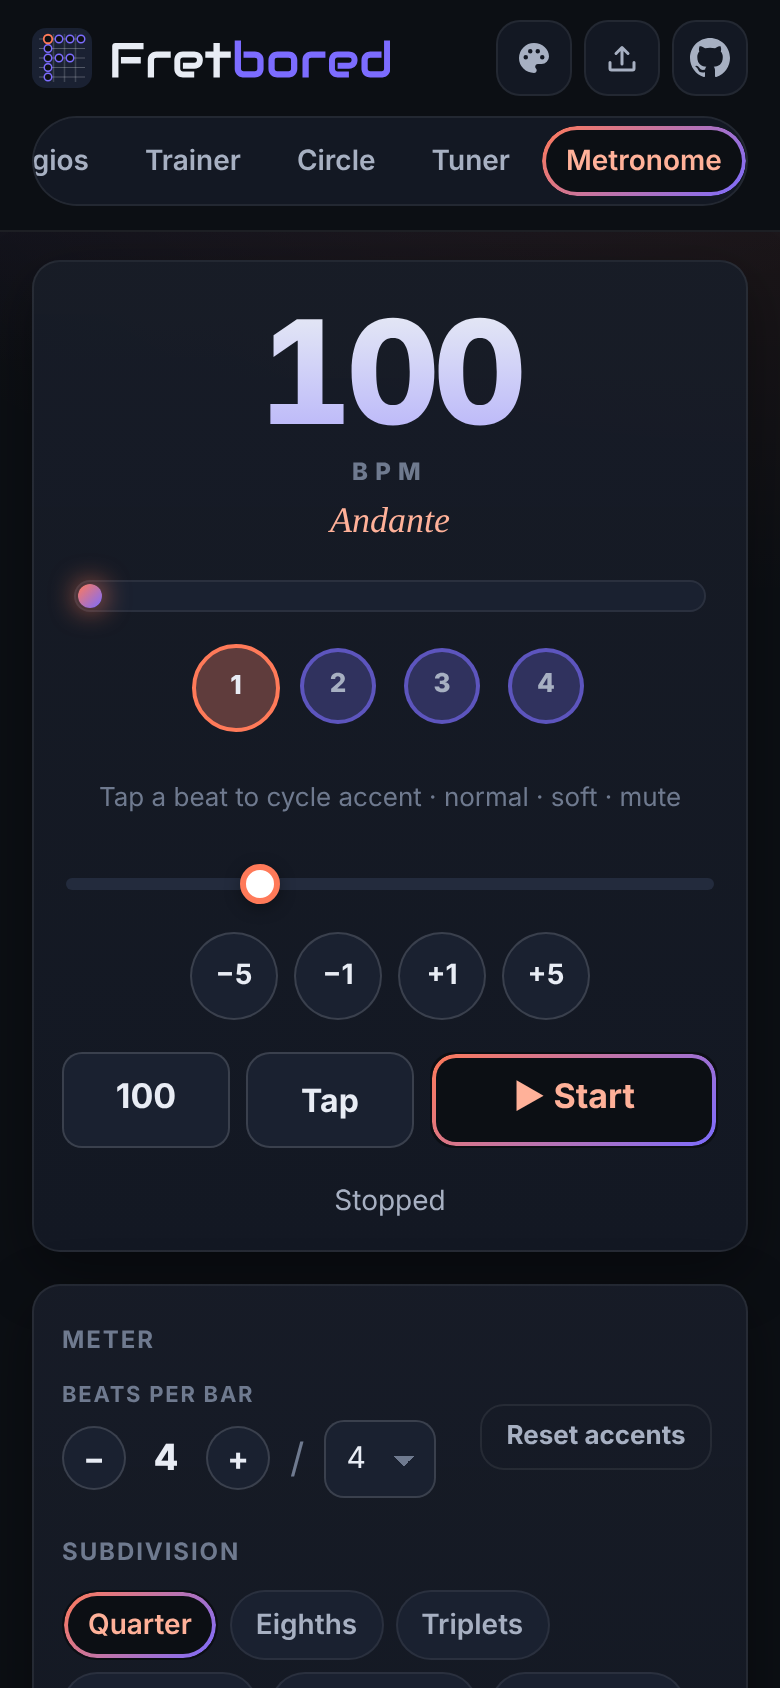
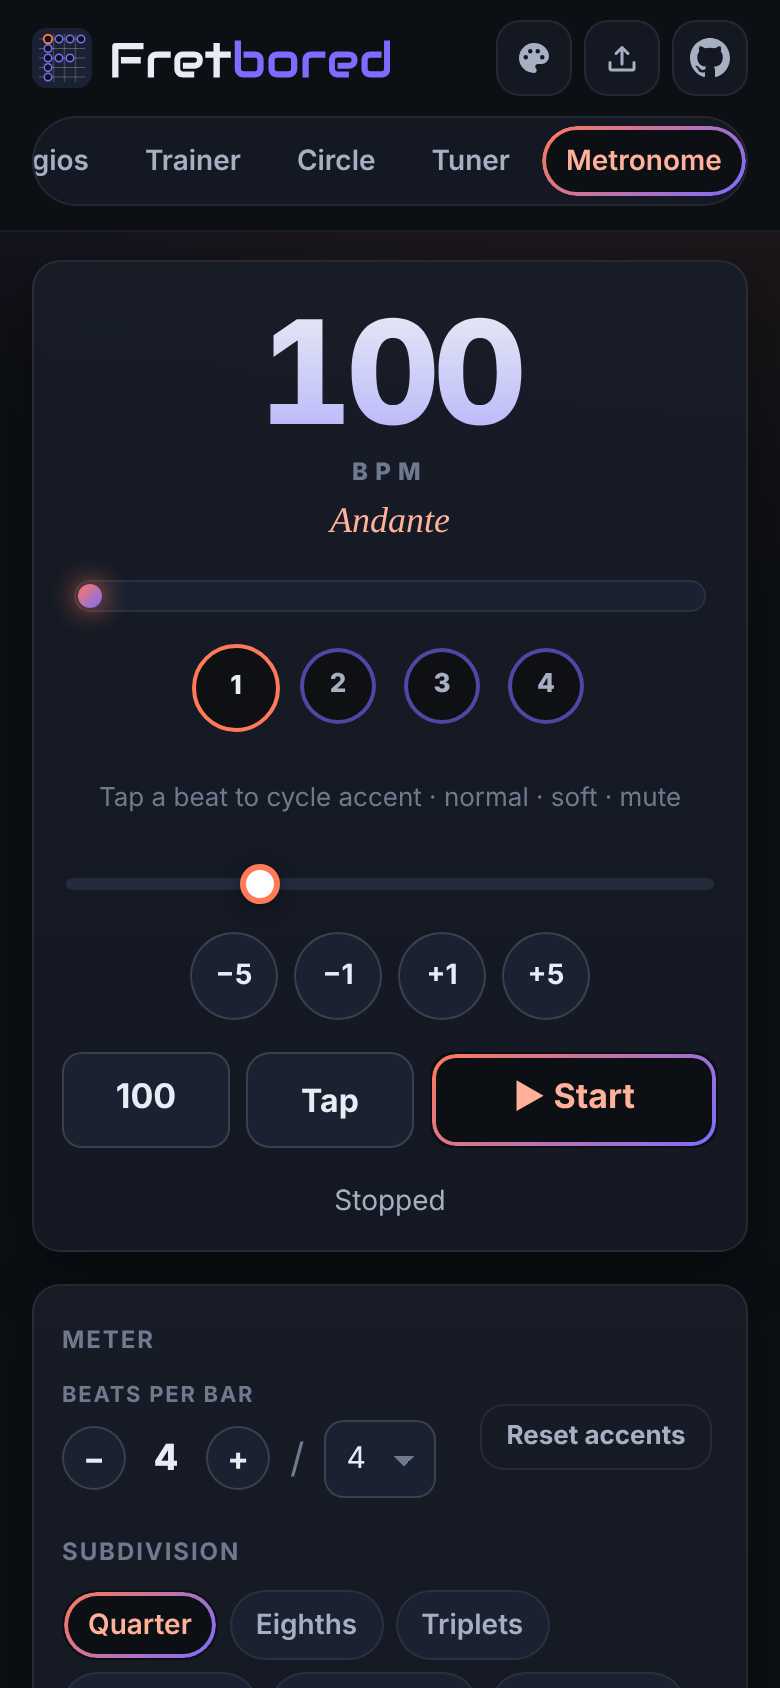
Keep one play button per tab: the pinned now-bar
Scales, Chords, Arpeggios and Circle of Fifths each had a second play
button in the hero card, duplicating the action in the pinned bar. The
bar is always visible, so the hero copies were removed; Circle keeps its
"Show on fretboard" button.

Ring style: the metronome beat lights now use the same near-black fill
as the note dots, so the coloured ring reads the same as the fretboard.
Lit beats keep their thicker accent ring.

Claude-Session: https://claude.ai/code/session_01PCZFbmeF94mj426R5FEm5H

Changed region(s): [[0.2462, 0.3697, 0.4923, 0.4313], [0.6462, 0.3697, 0.7692, 0.4313], [0.5231, 0.3697, 0.6154, 0.4313]]

diff --git a/tests/smoke.browser.js b/tests/smoke.browser.js
@@ -223,7 +223,7 @@ const check = (label, actual, expected) => {
     check(`${P} guitar settings header`, (await page.textContent('#panel-chords .fb-settings-title')).trim(), 'Guitar settings');
     await page.click('#panel-chords .fb-settings summary');
     await page.click('#panel-chords .seg[aria-label="Guitar tone"] button:has-text("Overdriven")');
-    await page.click('#panel-chords .hero-actions button');
+    await page.click('.now-bar.show .nb-action');
     await page.waitForTimeout(300);
     check(`${P} tone saved`, await page.evaluate(() => FS.settings.fretboard.tone), 'overdrive');
     check(`${P} tone options`, await page.$$eval('#panel-chords .seg[aria-label="Guitar tone"] button', (b) => b.map((x) => x.textContent).join(' ')), 'Clean Overdriven');
@@ -255,7 +255,7 @@ const check = (label, actual, expected) => {
     await page.click('#panel-chords .fb-settings .switch-field:has-text("Palm mute")');
     await page.click('#panel-chords .seg[aria-label="Reverb"] button:has-text("Hall")');
     await page.click('#panel-chords .seg[aria-label="Delay"] button:has-text("Echo")');
-    await page.click('#panel-chords .hero-actions button');
+    await page.click('.now-bar.show .nb-action');
     await page.waitForTimeout(300);
     check(`${P} palm mute / reverb / delay saved`, await page.evaluate(() => { const f = FS.settings.fretboard; return `${f.palmMute} ${f.reverb} ${f.delay}`; }), 'true hall echo');
     const fx = await page.evaluate(async () => {
@@ -340,10 +340,10 @@ const check = (label, actual, expected) => {
     await page.click('#panel-arpeggios .pill[title^="G shape"]');
     await page.waitForTimeout(150);
     check(`${P} arpeggios: G shape tab`, await tabFrets(), /^8 7 5 5 5 8 8/);
-    await page.click('#panel-arpeggios .play-btn');
+    await page.click('.now-bar.show .nb-action');
     await page.waitForTimeout(700);
     check(`${P} arpeggios: playback highlights the tab`, String(await page.$$eval('#panel-arpeggios .tab-note.on', (n) => n.length)), '1');
-    await page.click('#panel-arpeggios .play-btn');
+    await page.click('.now-bar.show .nb-action');
     // Max shred: notes scheduled 50 ms apart on the audio clock.
     await page.evaluate(() => {
       window.__notes = [];
@@ -352,7 +352,7 @@ const check = (label, actual, expected) => {
       FS.audio.playNote = (midi, when, ...rest) => (window.__notes.push(when), orig(midi, when, ...rest));
     });
     await page.click('#panel-arpeggios .seg[aria-label="Playback speed"] button:has-text("Max shred")');
-    await page.click('#panel-arpeggios .play-btn');
+    await page.click('.now-bar.show .nb-action');
     const gaps = await page.evaluate(() => { FS.audio.playNote = window.__origPlayNote; return [...new Set(window.__notes.slice(1).map((t, i) => Math.round((t - window.__notes[i]) * 1000)))].join(','); });
     check(`${P} arpeggios: max shred spacing (ms)`, gaps, '50');
     await page.waitForTimeout(1300);

diff --git a/css/style.css b/css/style.css
@@ -616,7 +616,6 @@ input:disabled { opacity: 0.45; cursor: not-allowed; }
 .accent-text { background: linear-gradient(90deg, var(--accent), var(--accent-2)); -webkit-background-clip: text; background-clip: text; color: transparent; }
 .hero-sub { color: var(--text-2); margin-top: 4px; font-size: 14px; }
 .hero-actions { display: flex; gap: 8px; flex-wrap: wrap; }
-.play-btn { min-width: 96px; }
 
 .note-chips { display: flex; flex-wrap: wrap; gap: 8px; }
 .chip {
@@ -1162,8 +1161,10 @@ dialog::backdrop { background: rgba(5, 8, 14, 0.6); backdrop-filter: blur(3px); 
   background: linear-gradient(var(--bg), var(--bg)) padding-box, linear-gradient(135deg, var(--accent), var(--accent-2)) border-box;
 }
 :root[data-style='ring'] .switch input:checked + .slider::after { top: 2px; left: 2px; background: linear-gradient(135deg, var(--accent), var(--accent-2)); }
-:root[data-style='ring'] .beat-dot.on span { background: var(--bg); color: var(--accent-text); border-color: var(--accent); border-width: 3px; box-shadow: none; }
-:root[data-style='ring'] .beat-dot.on:is([data-level='2'], [data-level='1']) span { background: var(--bg); color: var(--text); border-color: var(--accent-2); }
+/* Beat lights: a black centre like the note dots; the coloured ring shows the level, and a lit beat gets a thicker one. */
+:root[data-style='ring'] .beat-dot span { background: var(--ring-fill); box-shadow: none; }
+:root[data-style='ring'] .beat-dot.on span { color: var(--accent-text); border-color: var(--accent); border-width: 3px; }
+:root[data-style='ring'] .beat-dot.on:is([data-level='2'], [data-level='1']) span { color: var(--text); border-color: var(--accent-2); }
 /* Circle of fifths: diatonic segments are dark like the dots, each with a ring in its colour. */
 :root[data-style='ring'] .cof-seg.on path { fill: var(--ring-fill); stroke: var(--dot-note); stroke-width: 2.5; }
 :root[data-style='ring'] .cof-seg.on text { fill: color-mix(in srgb, var(--dot-note) 80%, white); }

diff --git a/js/arpeggios.js b/js/arpeggios.js
@@ -60,7 +60,6 @@
     const sub = h('div', { class: 'hero-sub' });
     const chips = h('div', { class: 'note-chips' });
     const alts = h('div', { class: 'match' });
-    const playBtn = h('button', { class: 'btn primary play-btn', onclick: () => (playing ? stopPlaying() : play()) });
     const tabHost = h('div', { class: 'tab-host', role: 'img' });
 
     const fbControls = h('div');
@@ -75,7 +74,7 @@
           h('label', { class: 'field switch-field compact' }, h('span', { class: 'field-label' }, 'All arpeggio tones'), h('span', { class: 'switch' }, showAll, h('span', { class: 'slider' })))))
       ),
       h('div', { class: 'card hero arp-hero' },
-        h('div', { class: 'hero-head' }, h('div', null, title, sub), h('div', { class: 'hero-actions' }, playBtn)),
+        h('div', { class: 'hero-head' }, h('div', null, title, sub)),
         chips,
         alts,
         h('div', { class: 'inline wrap gap-lg' },
@@ -282,7 +281,6 @@
       orderSeg.querySelectorAll('button').forEach((b) => b.classList.toggle('active', b.dataset.v === st.order));
       styleSeg.querySelectorAll('button').forEach((b) => b.classList.toggle('active', b.dataset.v === st.style));
       speedSeg.querySelectorAll('button').forEach((b) => b.classList.toggle('active', b.dataset.v === st.speed));
-      playBtn.textContent = playing ? '■ Stop' : '▶ Play';
     }
 
     function render() {

diff --git a/js/scales.js b/js/scales.js
@@ -31,7 +31,6 @@
     const sub = h('div', { class: 'hero-sub' });
     const chips = h('div', { class: 'note-chips' });
     const match = h('div', { class: 'match' });
-    const playBtn = h('button', { class: 'btn primary play-btn', onclick: () => play() });
     const resetBtn = h('button', { class: 'btn ghost', title: 'Undo manual edits', onclick: () => reset() }, 'Reset');
 
     const fbControls = h('div');
@@ -54,7 +53,7 @@
       h('div', { class: 'card hero' },
         h('div', { class: 'hero-head' },
           h('div', null, title, sub),
-          h('div', { class: 'hero-actions' }, resetBtn, playBtn)
+          h('div', { class: 'hero-actions' }, resetBtn)
         ),
         chips,
         match
@@ -208,7 +207,6 @@
         if (!m.sameNotes.length && !m.near.length) match.append(h('span', { class: 'match-label' }, 'No close match in the library'));
       }
 
-      playBtn.innerHTML = playing ? '■ Stop' : '▶ Play';
       nowBar.set({
         accent: t.pretty(sp.root),
         rest: scale ? scale.name : 'Custom scale',

diff --git a/js/chords.js b/js/chords.js
@@ -33,7 +33,6 @@
     const chips = h('div', { class: 'note-chips' });
     const alts = h('div', { class: 'match' });
     const box = h('div', { class: 'chord-box' });
-    const playBtn = h('button', { class: 'btn primary', onclick: () => strum() }, '▶ Strum');
 
     const fbControls = h('div');
     const fbHost = h('div');
@@ -47,7 +46,7 @@
       ),
       h('div', { class: 'card hero chord-hero' },
         h('div', { class: 'hero-main' },
-          h('div', { class: 'hero-head' }, h('div', null, title, sub), h('div', { class: 'hero-actions' }, playBtn)),
+          h('div', { class: 'hero-head' }, h('div', null, title, sub)),
           chips,
           alts
         ),

diff --git a/js/circle.js b/js/circle.js
@@ -120,7 +120,6 @@
     const noteChips = h('div', { class: 'note-chips' });
     const chordTable = h('div', { class: 'chord-table' });
     const related = h('div', { class: 'related' });
-    const playBtn = h('button', { class: 'btn primary', onclick: () => playScale() }, '▶ Play scale');
     const openBtn = h('button', {
       class: 'btn',
       onclick: () => {
@@ -145,7 +144,7 @@
             h('h3', { class: 'section-title' }, 'Diatonic chords'),
             chordTable,
             related,
-            h('div', { class: 'hero-actions' }, playBtn, openBtn)
+            h('div', { class: 'hero-actions' }, openBtn)
           )
         )
       )

diff --git a/Requirements.md b/Requirements.md
@@ -39,7 +39,7 @@
   - A "Tap to: Add / remove · Set root" switch under the fretboard lets a plain tap set the root, as a gesture-free alternative
   - If the notes don't form a known scale, the scale is shown as "Custom" with the closest matches (e.g. "Dorian +B −B♭") and any scale the same notes form from another root; tapping a suggestion selects it
   - Scales that share the same notes as other scales/modes are listed (e.g. C Major = D Dorian = A Natural Minor …)
-- The user may click on a play button which will play a brief ascension up the scale until the next octave
+- The user may press play (in the pinned bar), which will play a brief ascension up the scale until the next octave
   - Notes light up on the fretboard as they play
 ##### Guitar chords tab
 - Similar to guitar scales tab, the user may select any root note
@@ -48,7 +48,7 @@
   - 6, m6, 6/9, add9, m(add9), add11, 7sus2, m7♭5, m(maj7), 7♭5, 7♯5, maj7♯5, maj7♭5, 9, maj9, m9, 7♭9, 7♯9, 9sus4, 7♯11, 11, m11, 13, maj13, m13
 - There is a position selection as well, example 1, 2, 3, 4, 5, which designates roughly how far up on the fretboard the chord lands.
   - Playable voicings are generated for the current tuning (root in the bass, max 4 fingers or a barre, 4-fret span)
-  - A chord diagram shows the selected shape, with the same chord as tablature beside it (one column, highest string on top, x for muted strings, roots highlighted) and the usual shorthand underneath (low string first, e.g. x32010); a "Strum" button plays it
+  - A chord diagram shows the selected shape, with the same chord as tablature beside it (one column, highest string on top, x for muted strings, roots highlighted) and the usual shorthand underneath (low string first, e.g. x32010); the "Strum" button in the pinned bar plays it
   - "All chord tones" toggle shows every chord tone on the neck behind the selected shape
 - User may also manually add or remove notes by clicking on them, and the application will automatically figure out if there is some chord match and change the selection
   - Tapping a fret moves that string's note there; tapping a played note again mutes the string
@@ -59,7 +59,7 @@
   - Positions: the five CAGED shapes per octave, each a 5-fret window anchored on a root (E and G shapes on the 6th string, A and C on the 5th, D on the 4th) holding every chord tone once — e.g. E major: E shape 0–4, D 1–5, C 4–8, A 7–11, G 9–12. Buttons read "A 7" (A shape from fret 7). Shape names appear in standard-like tunings; other tunings get numbered positions
   - Sweep: sweep-picking shapes — 6-, 5- and 4-string sweeps from a root to a root on the top string, and 3-string sweeps on the top three strings from each chord tone to its octave; at most two notes per string (hammer-ons/pull-offs), within a 6-fret span. E.g. E major 5-string: A 7·11, D 9, G 9, B 9, e 7·12. Buttons read "5-str 7"
 - The shape is shown as dots on the shared fretboard (roots highlighted; "All arpeggio tones" shows the rest of the neck faintly) and as tablature in playing order, so it's easy to see how to play it
-- Direction: Up, Down (highest note first) or Up & down; Play button with six speeds — Slow, Medium, Fast, Faster, Shred (≈13 notes/s, 16ths at 200 BPM) and Max shred (20 notes/s, 16ths at 300 BPM); two rows of three on phones — the current note lights up in the tab and on the fretboard; the last note rings as long as the others (it used to ring out for over a second, which sounded unnatural at fast speeds)
+- Direction: Up, Down (highest note first) or Up & down; Play button (in the pinned bar) with six speeds — Slow, Medium, Fast, Faster, Shred (≈13 notes/s, 16ths at 200 BPM) and Max shred (20 notes/s, 16ths at 300 BPM); two rows of three on phones — the current note lights up in the tab and on the fretboard; the last note rings as long as the others (it used to ring out for over a second, which sounded unnatural at fast speeds)
 - Edit the shape like on the Scales and Chords tabs: tap a fretboard note to add it (it plays) or tap a note in the shape to remove it. The shape becomes "Custom" and the arpeggio is identified from its notes (lowest note preferred as the root); other names for the same notes are offered under "Also" (tap one to switch), and long-press / right-click a note to make it the root. Chord tones missing from the shape are greyed; notes that match nothing show "? Unknown arpeggio". Tab and playback follow the custom notes (low to high). Choosing a root, type, style or position goes back to the generated shapes; a custom shape is remembered, and dropped if the tuning changes
 - The pinned "now viewing" bar shows the arpeggio while scrolling
 

diff --git a/CLAUDE.md b/CLAUDE.md
@@ -103,7 +103,8 @@ preview, `stylePreview`). Style is independent of the colour theme: a style only
 fills, rings, glows and shadows, and takes every colour from the theme. Classic has no rules; each other
 style is a `:root[data-style='id']` block at the end of `style.css` covering note dots (fretboard + chord
 diagram `.cb-dot`, which carries `--dot`), active tabs, pills, primary buttons, segmented buttons,
-switches and metronome beat lights. Ring/Target use `--ring-fill` (a fixed near-black) for dots.
+switches and metronome beat lights. Ring/Target use `--ring-fill` (a fixed near-black) for dots; Ring's metronome beat lights take it for their centre too.
+The tabs have no play buttons of their own: the pinned now-bar's action is the only one (the Strum/Play/Play scale hero buttons were removed).
 In `fretboard.js` every non-faint note gets a `.halo` ring (shown only on the root, or on all notes in
 Target, which also shrinks the dot to 0.78 r so rings on neighbouring strings don't touch). A style
 change emits `fretboard` to redraw. Theme-colour tests read the dot's `stroke` (Ring's fill is dark).
